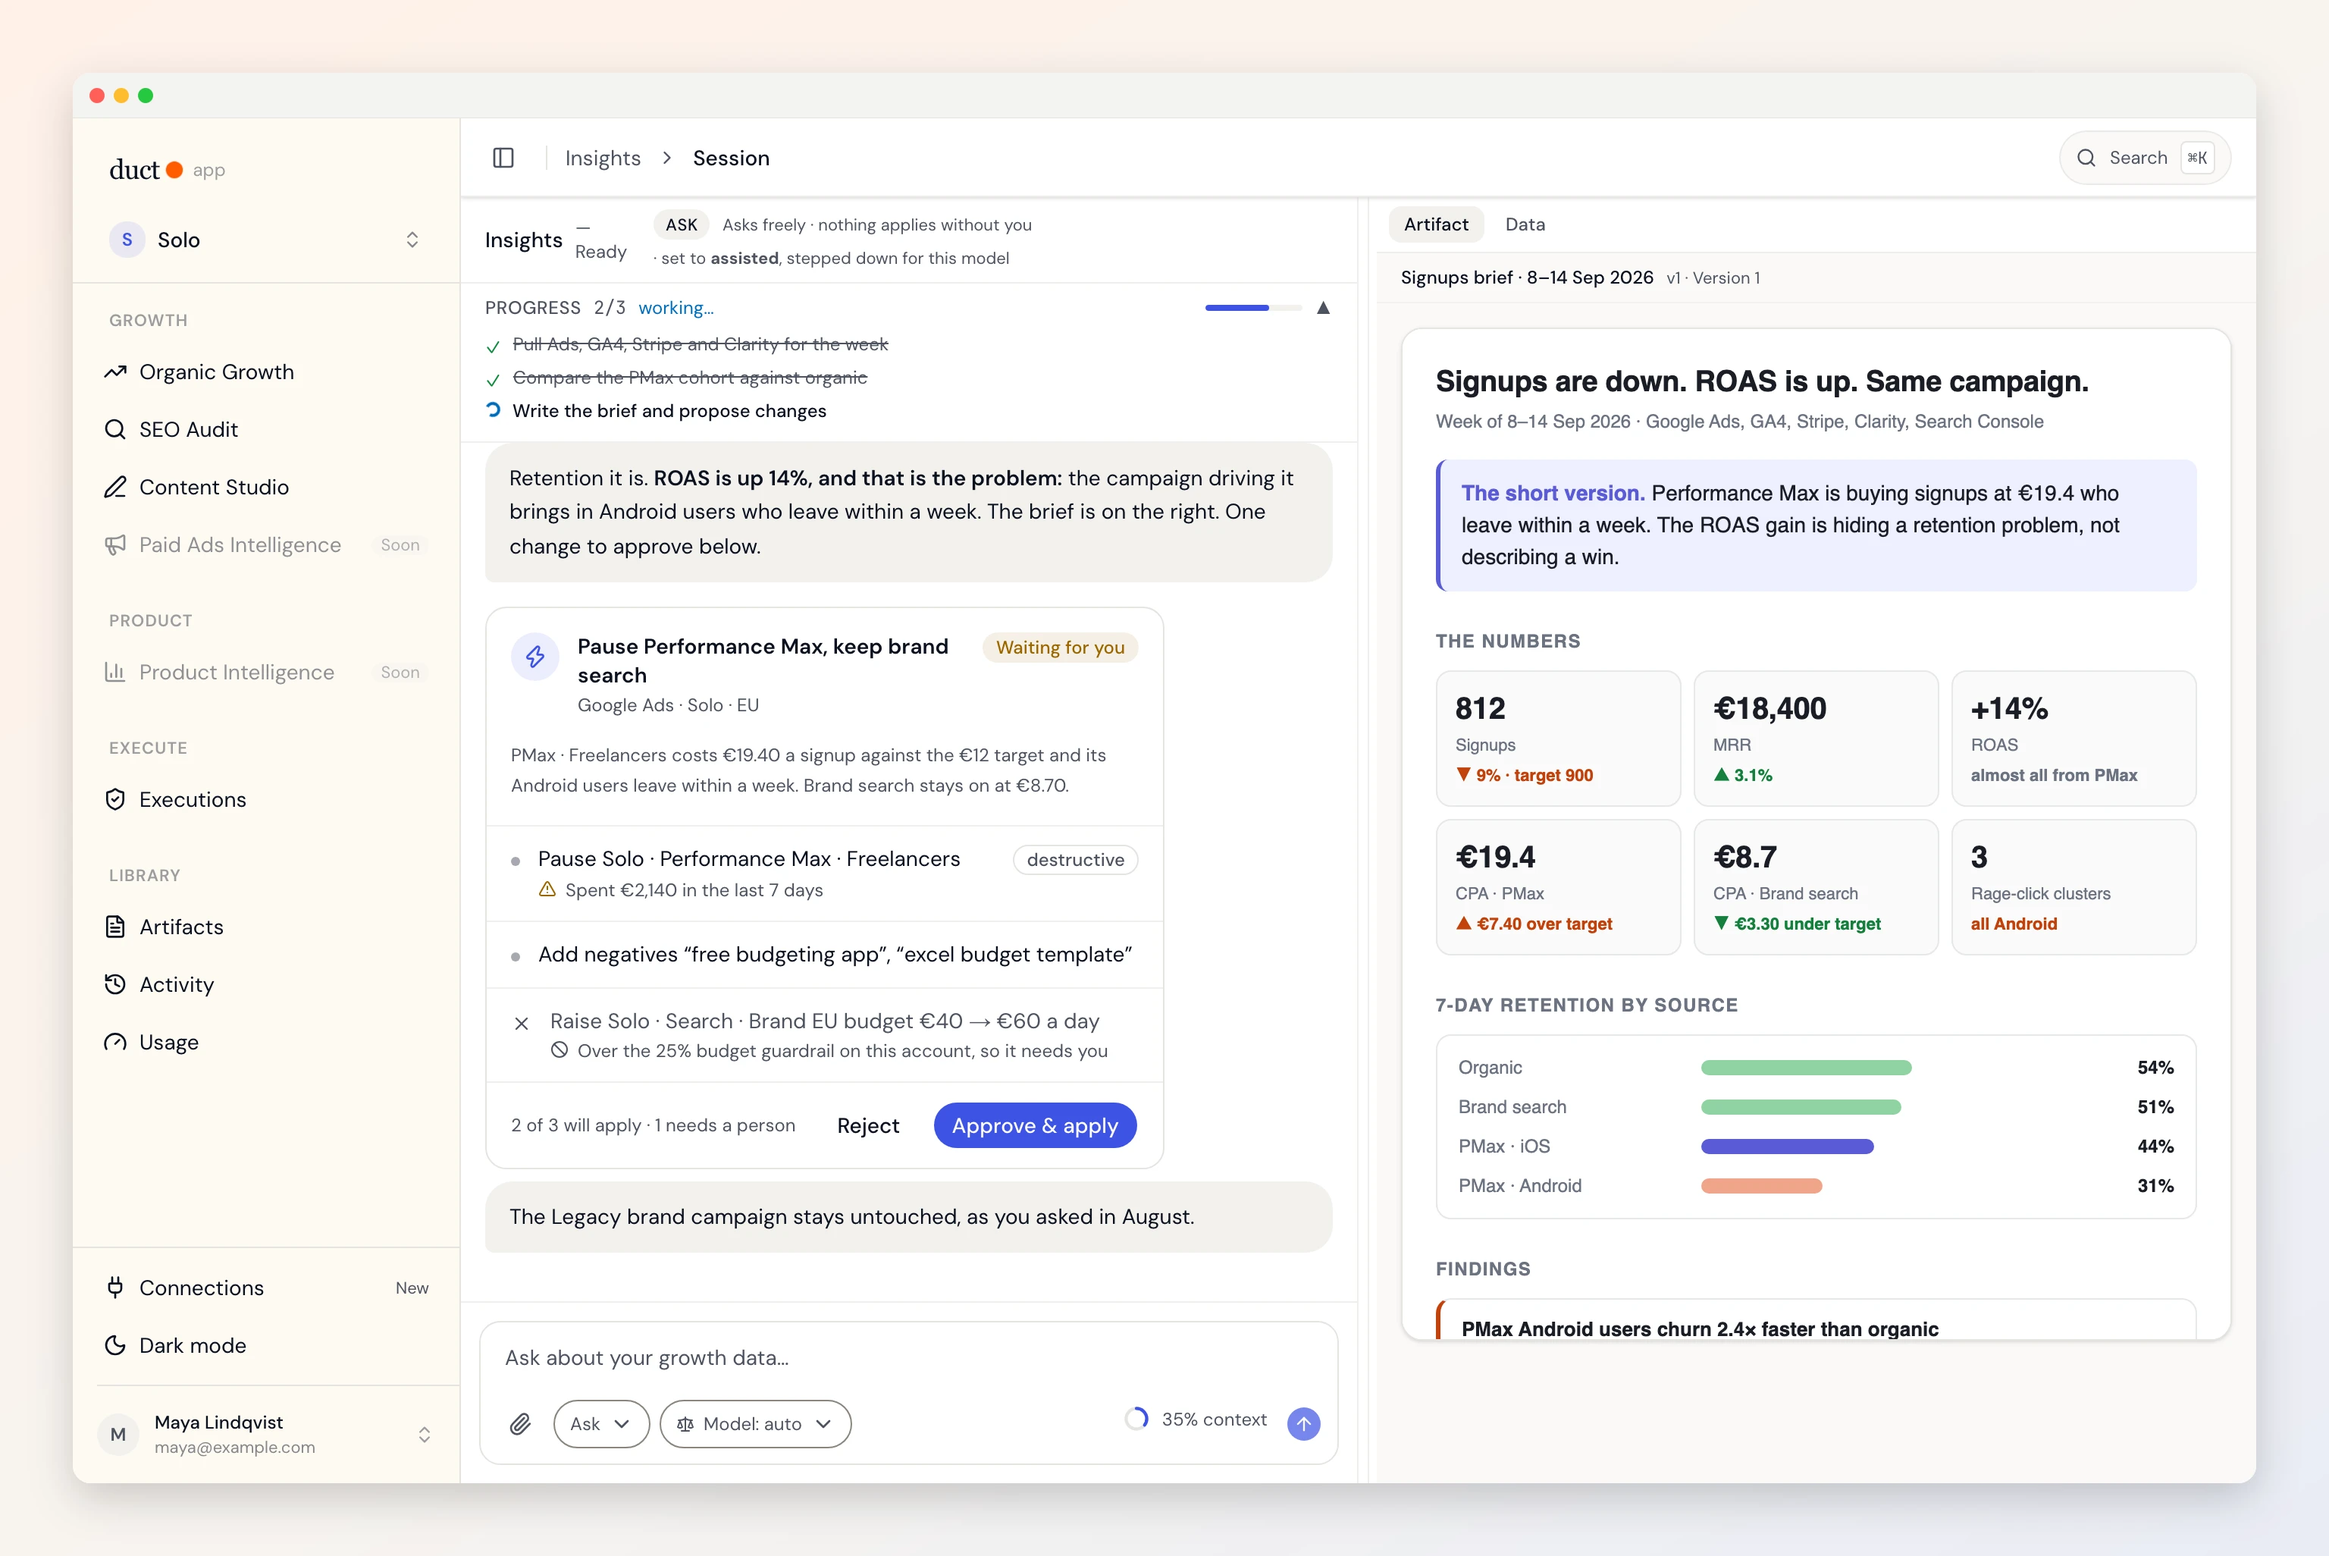
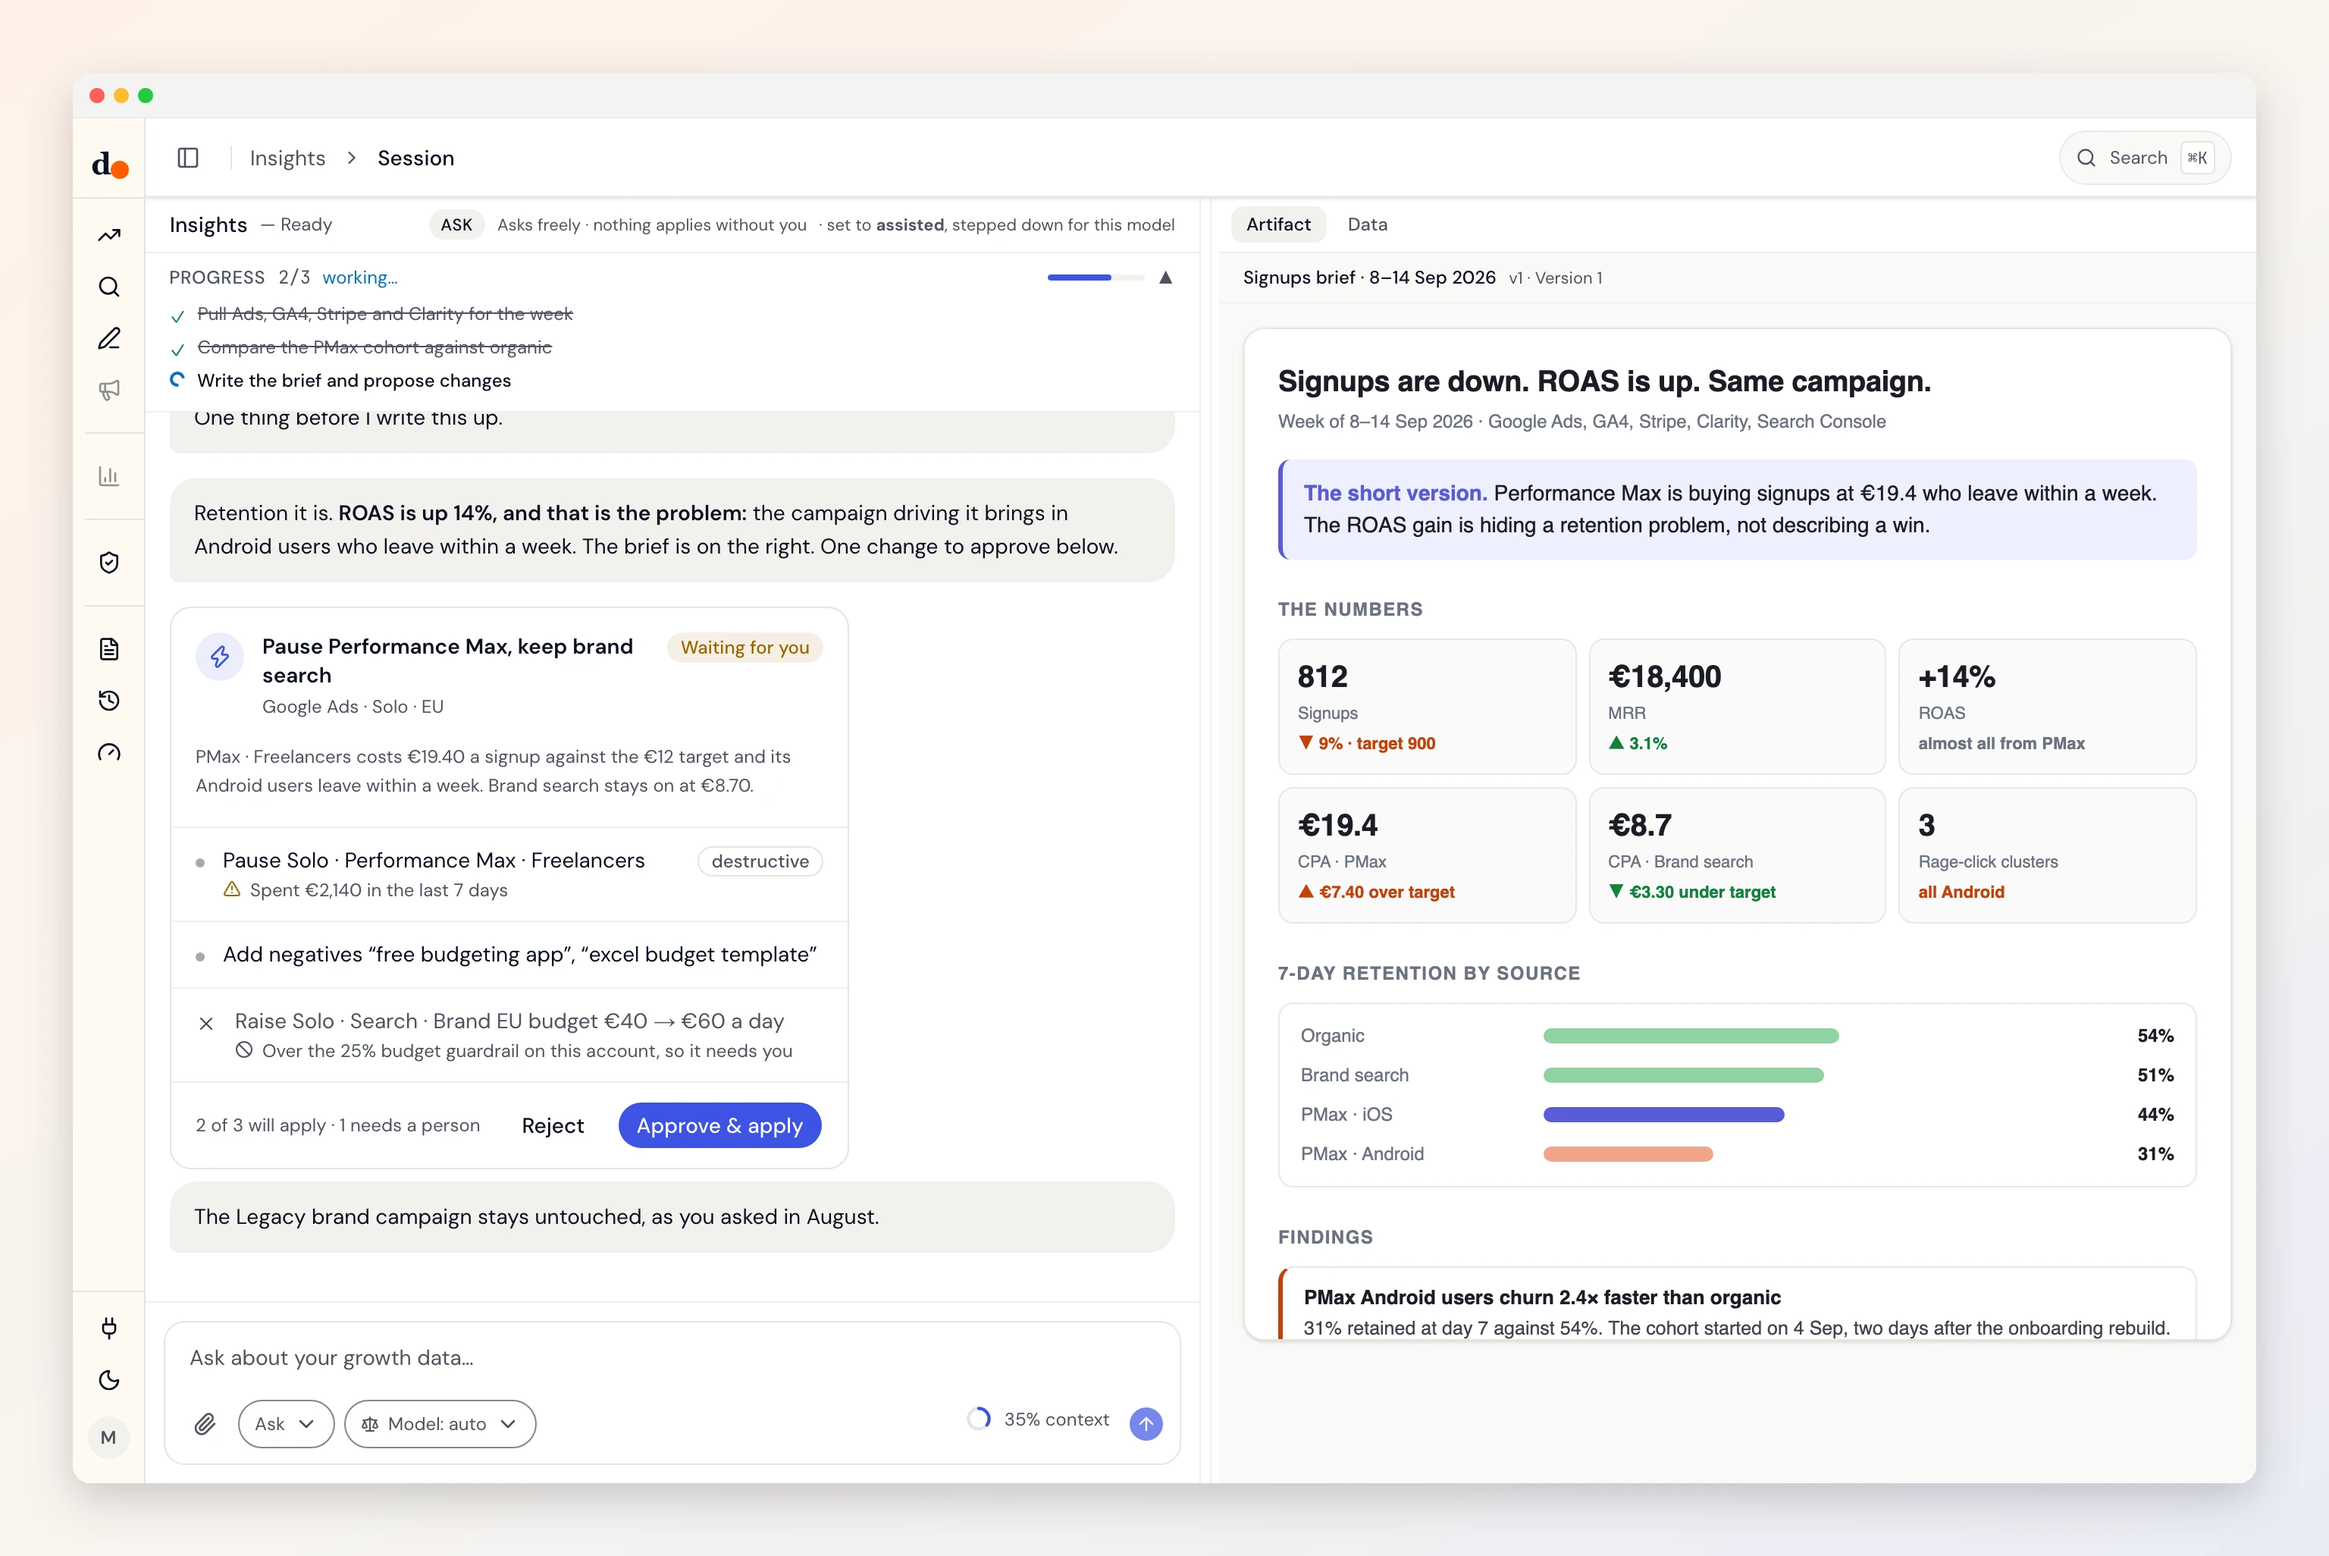
fix(site): keep the artifact pane, close the sidebar, a brief for every session
The last change hid the artifact pane in the product and paid sessions.
That pane is the product: the brief is what the agent makes, and it is
what the film sells. What should have gone was the sidebar, a column of
grey text that takes a quarter of a frame shown at a third of its size.

Every window shot now closes the sidebar through the app's own toggle
and keeps the pane. The product and paid sessions each write a brief to
it: an activation brief (Android halved the day the rebuild shipped,
before and after by platform) and a spend brief (CPA by campaign against
the €12 target). The brief is one builder in the story now, so the three
share a layout and a layout change reaches all of them; the signups
brief renders as before. The content session and the signups session
are reshot the same way, which the README picks up too.

diff --git a/site/for-paid-ads.html b/site/for-paid-ads.html
@@ -80,7 +80,7 @@
 <!-- PRODUCT SHOT (from docs/assets/readme, shot by scripts/shots/shoot.mjs) -->
 <section class="shot">
 <figure class="shot-frame reveal">
-<img src="assets/media/paid-session.webp" width="2552" height="2052" alt="An insights session: asked where the ads budget is leaking, the agent costs every campaign against the CPA target and proposes a pause, two negatives and a budget raise, the last one held by a guardrail"/>
+<img src="assets/media/paid-session.webp" width="3072" height="2052" alt="An insights session: asked where the ads budget is leaking, the agent costs every campaign against the CPA target, proposes a pause, two negatives and a budget raise, and writes the spend brief on the right"/>
 <figcaption>Ask where the budget leaks. Duct costs every campaign against your CPA target, proposes the pause, the negatives and the budget shift, and applies them when you approve. The one over the guardrail waits for you.</figcaption>
 </figure>
 </section>

diff --git a/site/for-product-intelligence.html b/site/for-product-intelligence.html
@@ -69,7 +69,7 @@
 <!-- PRODUCT SHOT (from docs/assets/readme, shot by scripts/shots/shoot.mjs) -->
 <section class="shot">
 <figure class="shot-frame reveal">
-<img src="assets/media/product-session.webp" width="2552" height="2052" alt="An insights session: asked why activation dropped after the Android release, the agent names the day, the platform and the screen, and proposes two GA4 key events to track the fix"/>
+<img src="assets/media/product-session.webp" width="3072" height="2052" alt="An insights session: asked why activation dropped after the Android release, the agent names the day, the platform and the screen, proposes two GA4 key events, and writes the activation brief on the right"/>
 <figcaption>Ask why activation dropped. Duct reads GA4, Clarity and Stripe either side of the release, names the screen, and proposes what to track so next week&rsquo;s brief can prove the fix.</figcaption>
 </figure>
 </section>

diff --git a/.agents/skills/new-page/SKILL.md b/.agents/skills/new-page/SKILL.md
@@ -61,9 +61,11 @@ top and the bottom, always `href="/download" data-duct-download`. Footnote:
 
 **Shot.** The hero shot is a session asked from this audience's side. Three
 exist: `product-session` (why did activation drop), `paid-session` (where is
-the budget leaking), `insights-session` (why are signups down, with the
-brief). A new audience gets a new one: add its stream to
-`scripts/shots/fixtures.mjs` and a scenario to `scenarios.mjs`, and shoot it.
+the budget leaking), `insights-session` (why are signups down); each ends on
+its brief in the artifact pane, with the sidebar closed so the canvas is the
+picture. A new audience gets a new one: its answer in `ANSWERS`, its brief
+through `brief()` in the story, its stream in `scripts/shots/fixtures.mjs`, a
+scenario in `scenarios.mjs`, then shoot it.
 The job cards take focused shots, never a whole window: `answer-<audience>`
 (one question, the sources read, the answer; a new audience adds its entry to
 `ANSWERS` in the story and gets the card for free), `review-card`,
